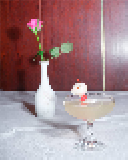
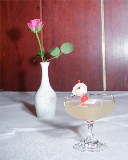
add example image for bicubic interpolation

diff --git a/README.md b/README.md
@@ -49,6 +49,12 @@ Example image is upscaled (from 128x160 to 1024x1280) using bilinear interpolati
 
 <img src="src/main/resources/result/scale/upscale_bilinear_interpolation_cocktail.png" alt="Upscaled (with bilinear interpolation) picture of cocktail" width="300">
 
+##### Bicubic interpolation
+
+Example image is upscaled (from 128x160 to 1024x1280) using bicubic interpolation.
+
+<img src="src/main/resources/result/scale/upscale_bilinear_interpolation_cocktail.png" alt="Upscaled (with bicubic interpolation) picture of cocktail" width="300">
+
 ### Grayscale
 
 ##### Averaging
